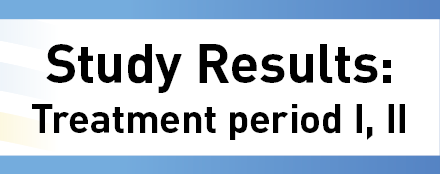
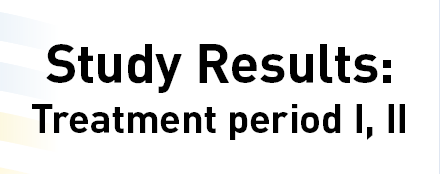
Updates

Changed region(s): [[0.0, 0.8908, 1.0, 1.0], [0.0, 0.0, 1.0, 0.1149]]

diff --git a/index.html b/index.html
@@ -300,7 +300,7 @@
                 <div class="swiper-slide" aria-label="10 페이지">
                     <div class="background">
                         <div class="slide-page page-11">
-                            <img src="/grove-kiosk-2025-omlyclo/assets/page11/p11_cont-v1.png?ver=0.2" alt="">
+                            <img src="/grove-kiosk-2025-omlyclo/assets/page11/p11_cont-v2.png?ver=0.3" alt="">
                         </div>                    </div>
                 </div>
             </div>
